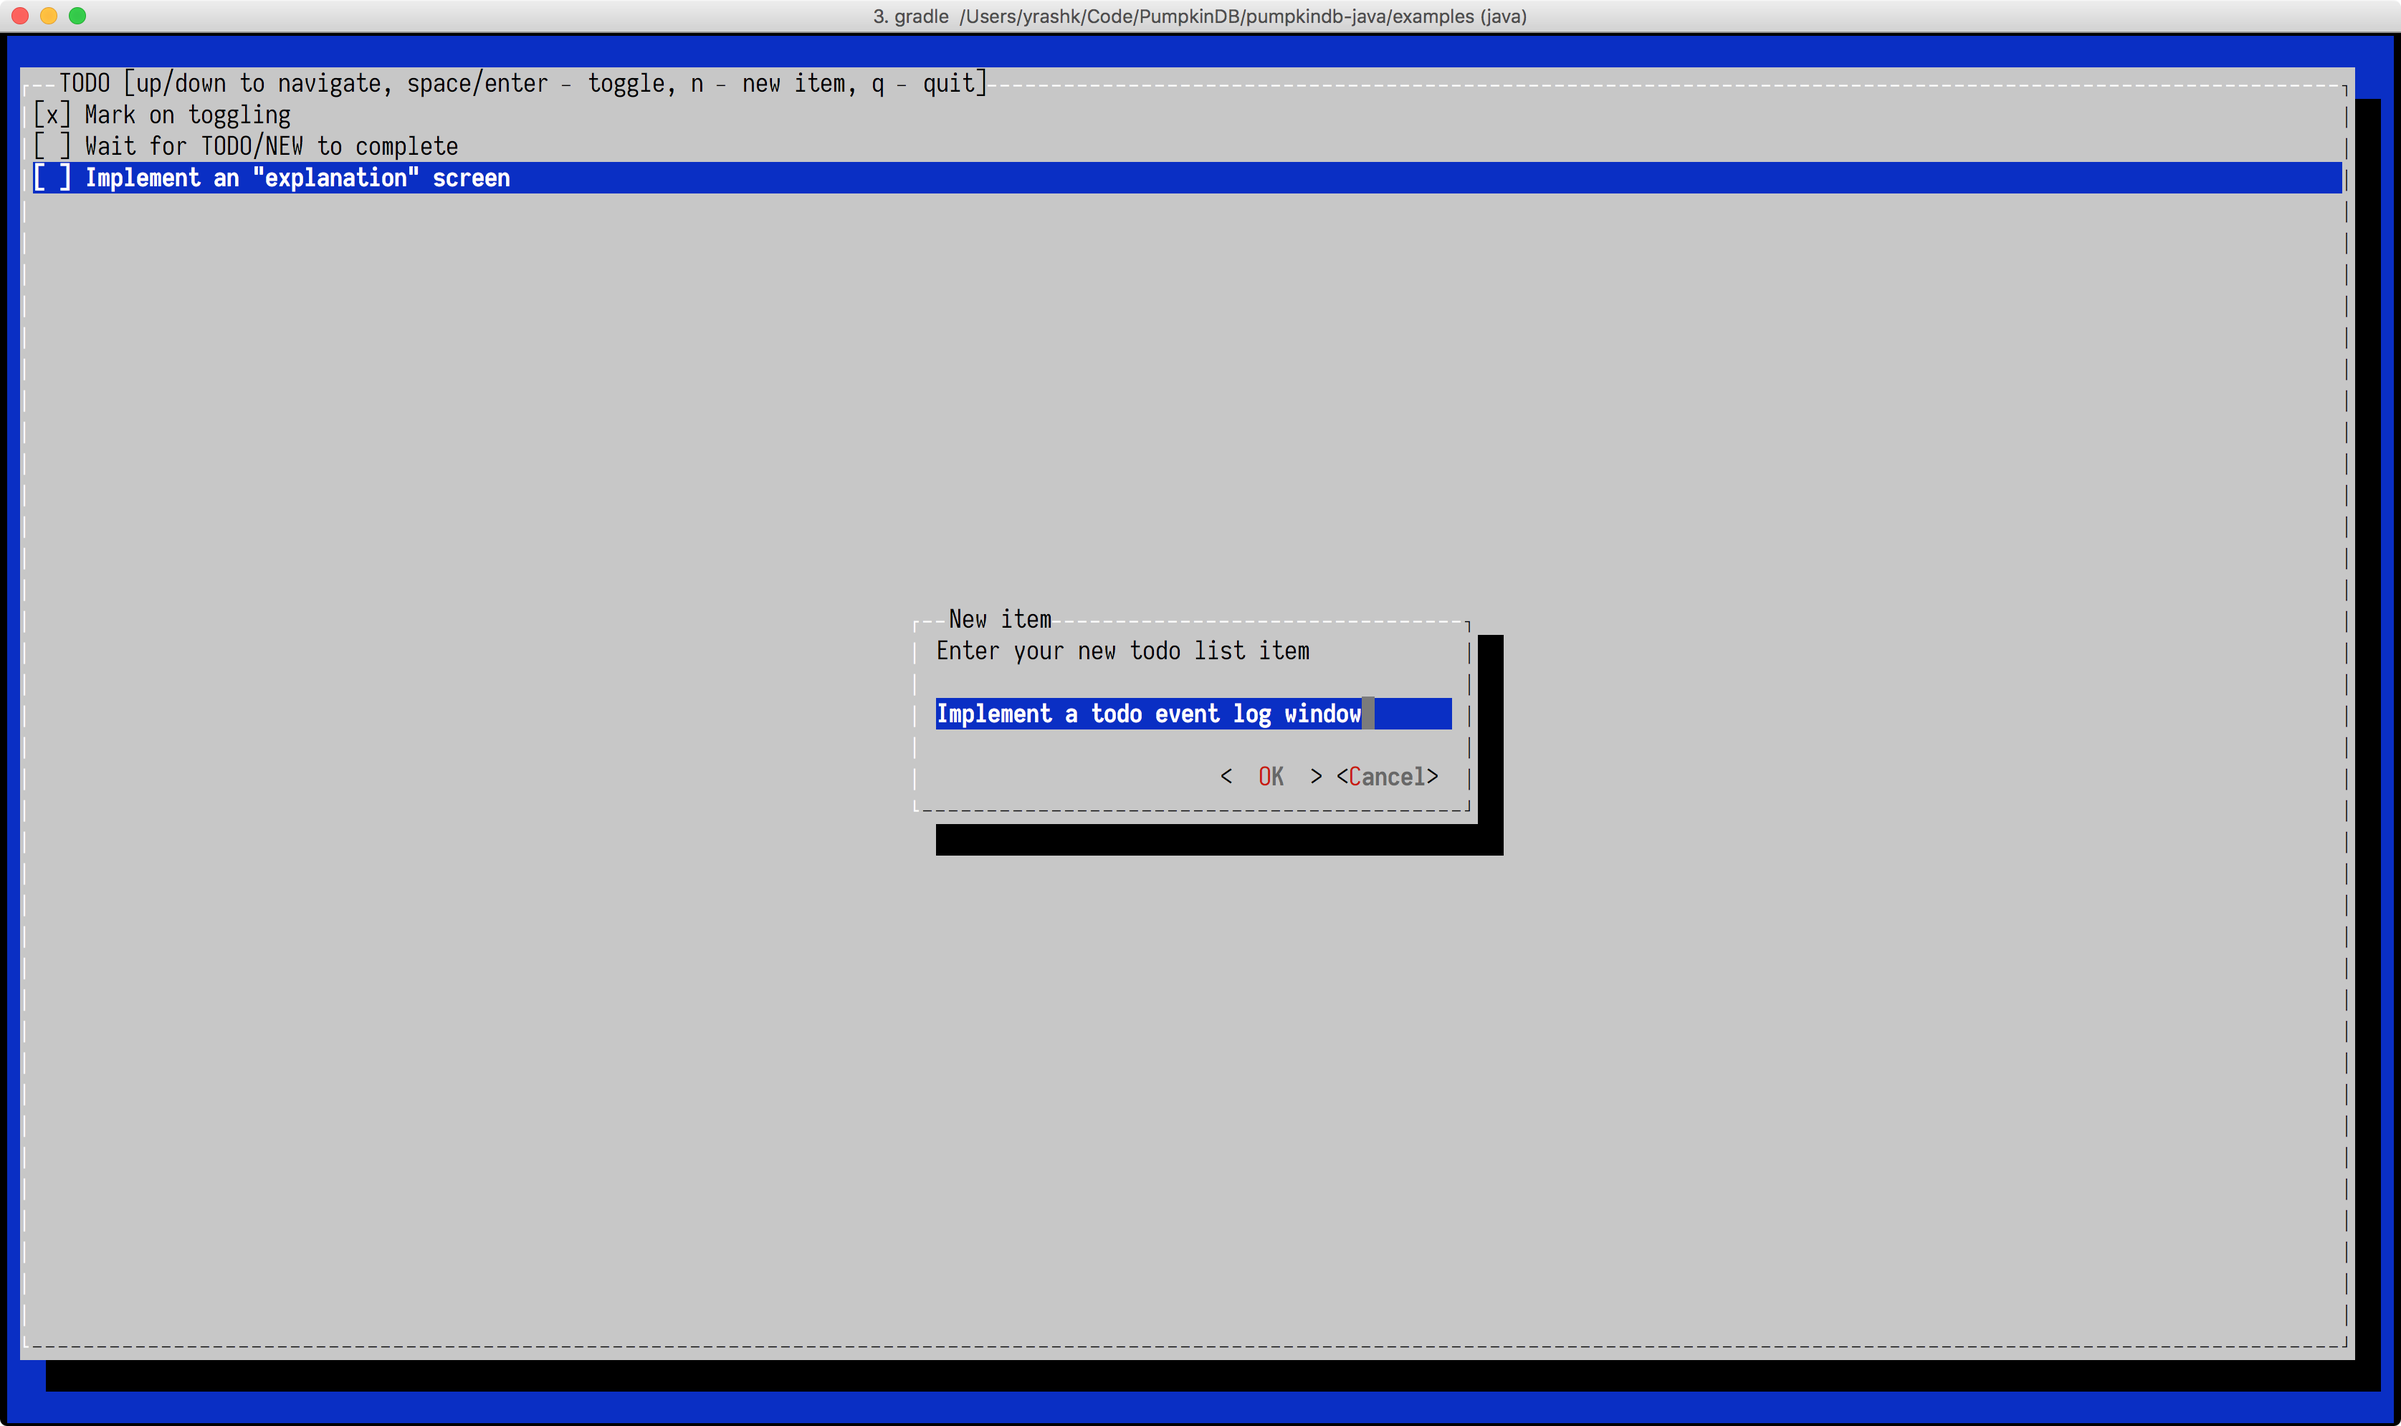
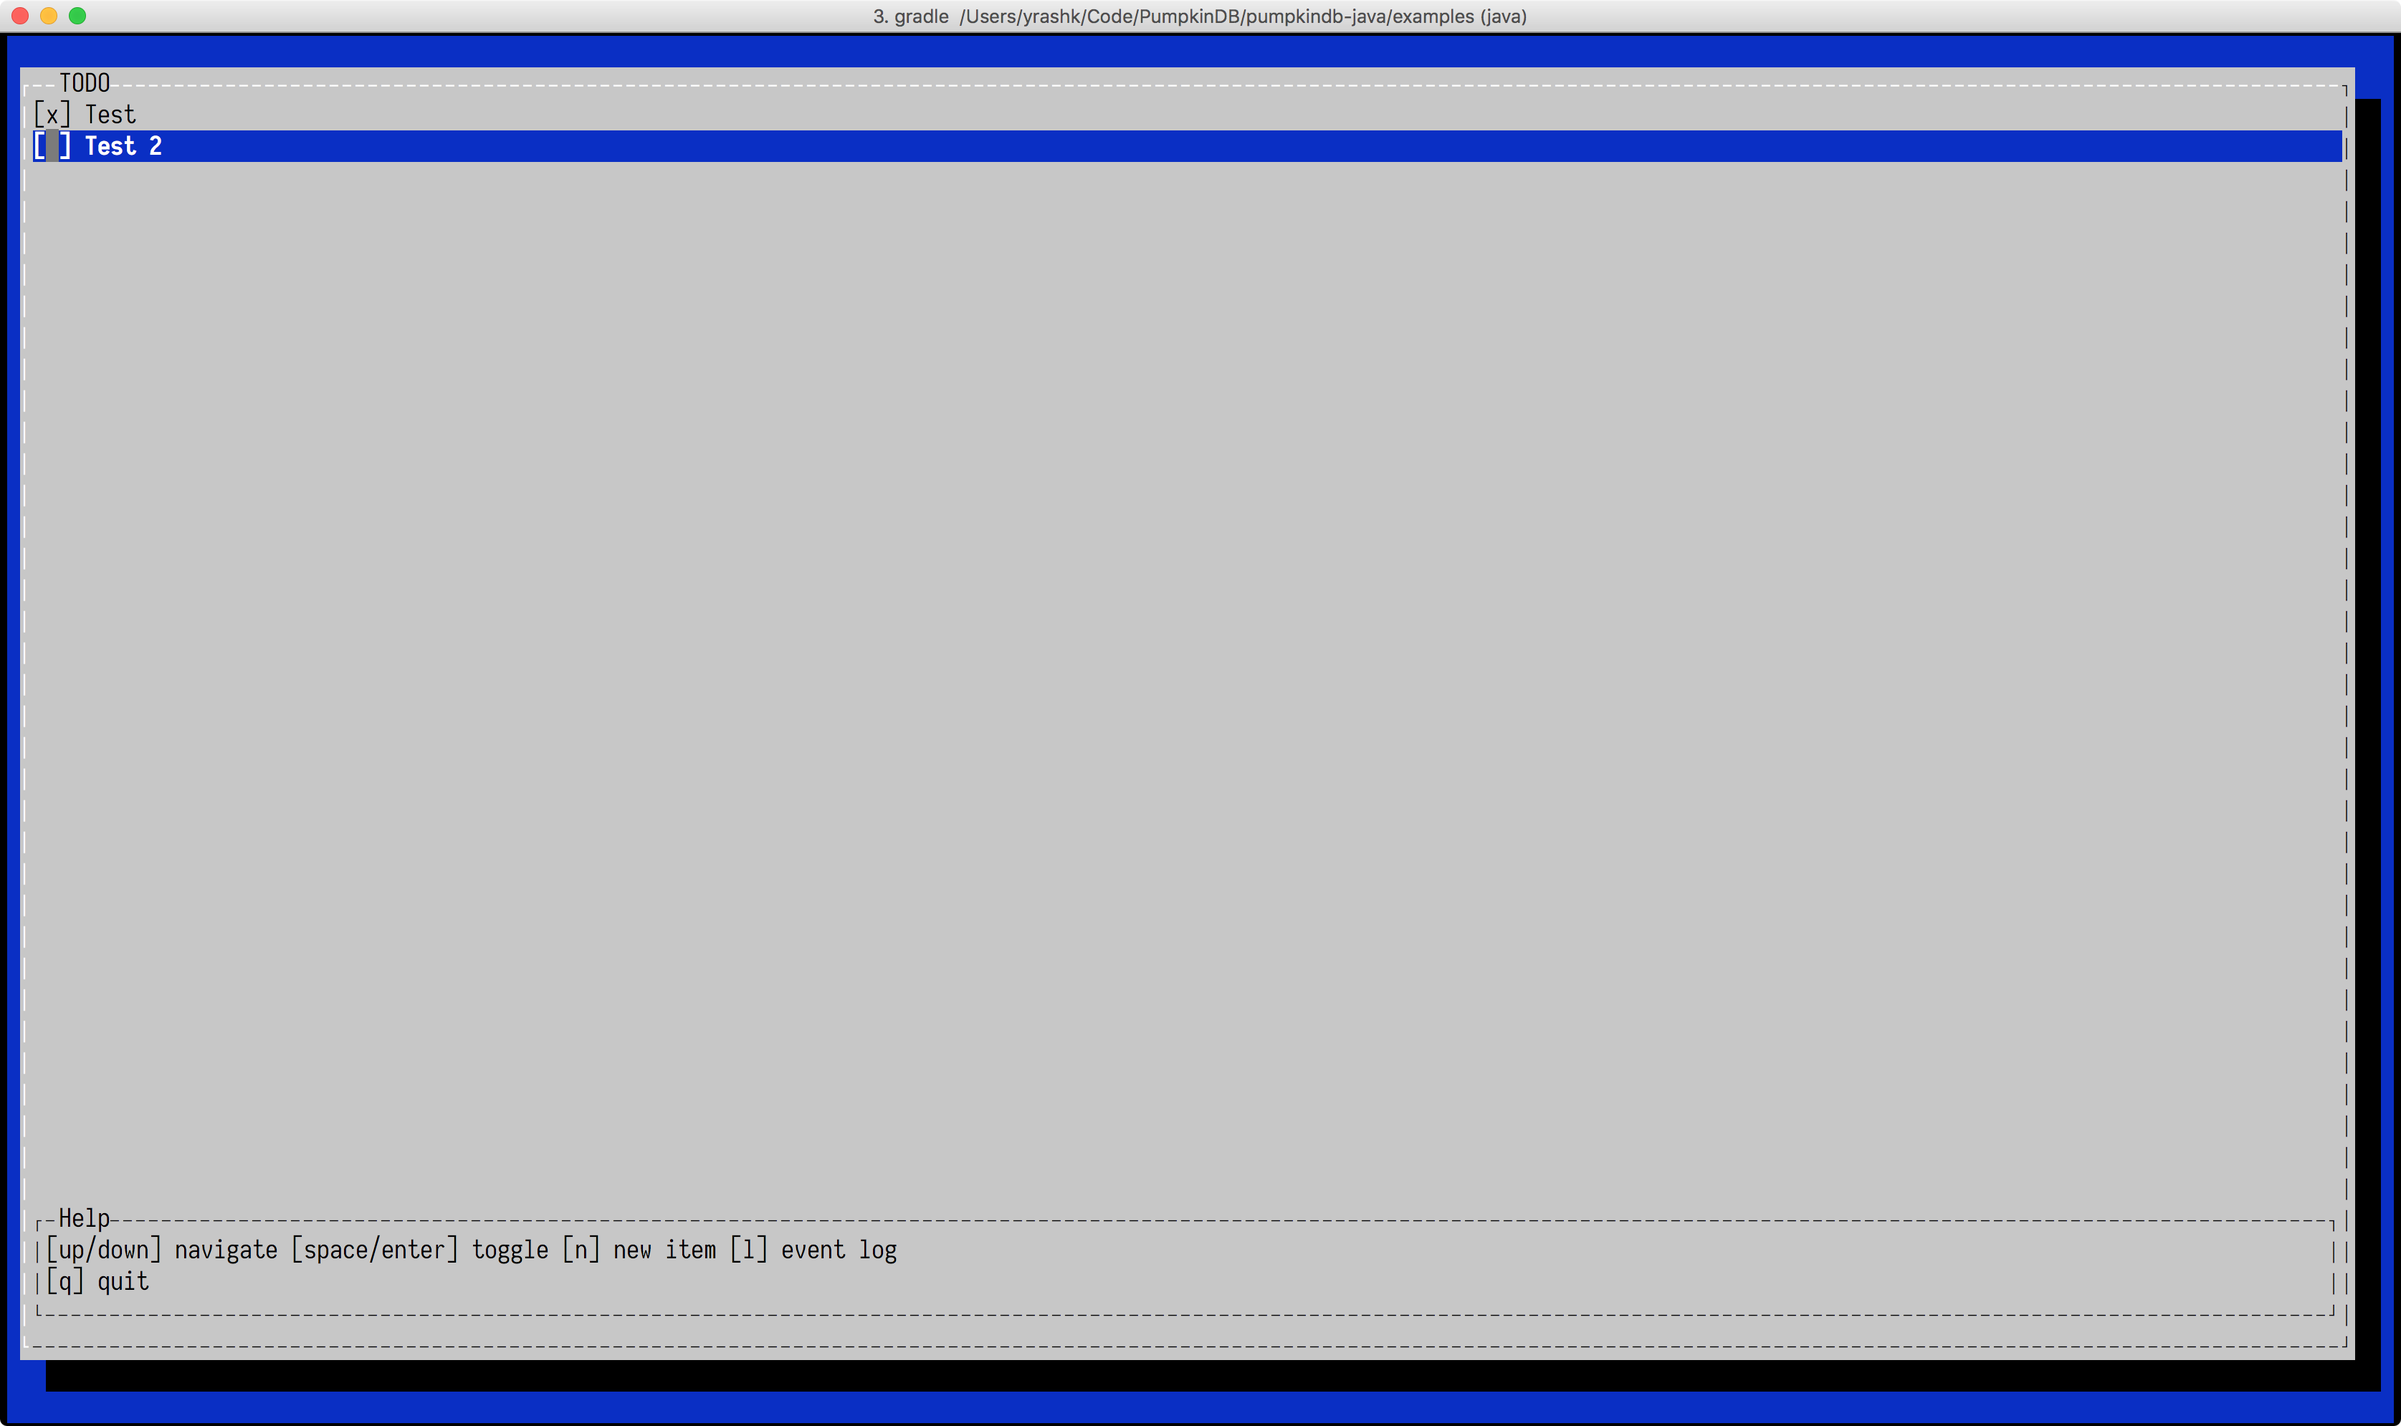
Problem: todolist example doesn't expose the evented nature
Judging just by the exposed functionality, it is impossible
to tell that todolist is using an immutable database such as
PumpkinDB.

Solution: exposes an 'event log' function to the users

This changes the way todo item events are collected (additional
journalling is now done to simplify the recovery of the complete
event log). The journal looks like this:

`[uuid][HLC] => [eventkey]`

This way we can simply iterate over all keys that start with a
given `uuid`.

This changes still continues the "tradition" of a terribly
organized code. Therefore I invite anybody, including future myself,
to get in and reorganize it, while documenting it. I just wanted
to get some basic functonality out.

diff --git a/examples/todolist/src/main/java/org/pumpkindb/examples/todolist/Main.java b/examples/todolist/src/main/java/org/pumpkindb/examples/todolist/Main.java
@@ -12,20 +12,23 @@ import com.googlecode.lanterna.gui2.*;
 import com.googlecode.lanterna.gui2.dialogs.MessageDialog;
 import com.googlecode.lanterna.gui2.dialogs.MessageDialogBuilder;
 import com.googlecode.lanterna.gui2.dialogs.TextInputDialog;
+import com.googlecode.lanterna.gui2.table.Table;
 import com.googlecode.lanterna.input.KeyStroke;
 import com.googlecode.lanterna.screen.TerminalScreen;
 import com.googlecode.lanterna.terminal.DefaultTerminalFactory;
 import com.googlecode.lanterna.terminal.Terminal;
 import io.netty.buffer.ByteBuf;
+import io.netty.buffer.Unpooled;
 import org.pumpkindb.*;
 
 import java.io.IOException;
+import java.math.BigInteger;
 import java.nio.ByteBuffer;
-import java.util.ArrayList;
-import java.util.Arrays;
-import java.util.List;
-import java.util.UUID;
+import java.nio.charset.Charset;
+import java.text.SimpleDateFormat;
+import java.util.*;
 import java.util.concurrent.ExecutionException;
+import java.util.concurrent.TimeUnit;
 import java.util.concurrent.atomic.AtomicBoolean;
 import java.util.function.Consumer;
 
@@ -78,10 +81,7 @@ public class Main {
         @Override public void encode(ByteBuf buffer) {
             Encodables script = new Encodables(Arrays.asList(
                     new Data(PREFIX),
-                    new Instruction("HLC"),
-                    new Instruction("CONCAT"),
-                    new Instruction("SWAP"),
-                    new Instruction("ASSOC")
+                    new Instructions("HLC CONCAT 2DUP SWAP ASSOC HLC ROT SWAP CONCAT SWAP ASSOC")
             ));
             script.encode(buffer);
         }
@@ -96,16 +96,9 @@ public class Main {
 
         @Override public void encode(ByteBuf buffer) {
             Encodables script = new Encodables(Arrays.asList(
+                    new Instruction("OVER"),
                     new Data(PREFIX),
-                    // uuid value prefix
-                    new Instruction("ROT"),
-                    // value prefix uuid
-                    new Instruction("HLC"),
-                    new Instruction("CONCAT"),
-                    new Instruction("CONCAT"),
-                    // value key
-                    new Instruction("SWAP"),
-                    new Instruction("ASSOC")
+                    new Instructions("SWAP HLC CONCAT CONCAT DUP -ROT SWAP ASSOC SWAP HLC CONCAT SWAP ASSOC")
             ));
             script.encode(buffer);
         }
@@ -141,14 +134,9 @@ public class Main {
 
     static class Handler implements MessageHandler {
 
-        private final UUID uuid = UUID.randomUUID();
         private final Consumer<List<Encodable>> callback;
 
         Handler(Consumer<List<Encodable>> callback) {this.callback = callback;}
-
-        public UUID getUuid() {
-            return uuid;
-        }
 
         @Override public void accept(ByteBuf byteBuf) {
             List<Encodable> encodables = new ArrayList<>();
@@ -158,14 +146,47 @@ public class Main {
 
     }
 
-    private static Encodable fetchTodoList(Handler handler) {
+
+    static class RoutingHandler implements MessageHandler {
+
+        private final UUID uuid = UUID.randomUUID();
+        private final Map<String, Handler> handlers = new HashMap<>();
+
+        public UUID getUuid() {
+            return uuid;
+        }
+
+        public void registerHandler(String key, Handler handler) {
+            handlers.put(key, handler);
+        }
+
+        public void unregisterHandler(String key) {
+            handlers.remove(key);
+        }
+
+        @Override public void accept(ByteBuf byteBuf) {
+            BinaryParsingIterator iterator = new BinaryParsingIterator(byteBuf);
+            if (iterator.hasNext()) {
+                Data key = (Data) iterator.next();
+                Handler handler = handlers.get(new String(key.getData()));
+                if (handler != null) {
+                    handler.accept(byteBuf);
+                }
+            }
+        }
+
+    }
+
+
+    private static Encodable fetchTodoList(UUID uuid) {
         return new Encodables(Arrays.asList(
-                new Uuid(handler.getUuid()),
+                new Uuid(uuid),
                 new Instruction("SUBSCRIBE"),
                 new Closure(
                         new Utf8String("AddedTodoItem"),
                         new Closure(
-                                new Instructions("CURSOR/VAL DUP DUP CURSOR DUP ROT"),
+                                new Utf8String("Items"), // routing key
+                                new Instructions("SWAP CURSOR/VAL DUP DUP CURSOR DUP ROT"),
                                 new Utf8String("ChangedTodoItem"),
                                 new Instructions("SWAP CONCAT CURSOR/SEEKLAST DROP CURSOR/VAL"),
                                 new Instructions("SWAP"),
@@ -174,9 +195,31 @@ public class Main {
                                 new Closure(new Instructions("CURSOR/VAL")),
                                 new Closure(new Instruction("DROP"), new Bool(false)),
                                 new Instructions("IFELSE"),
-                                new UnsignedInteger(3),
+                                new UnsignedInteger(4),
                                 new Instruction("WRAP"),
-                                new Uuid(handler.getUuid()),
+                                new Uuid(uuid),
+                                new Instruction("PUBLISH"),
+                                new Bool(true)
+                        ),
+                        new Instruction("CURSOR/DOWHILE-PREFIXED")
+                ),
+                new Instruction("READ"),
+                new Instruction("UNSUBSCRIBE")
+        ));
+    }
+
+    private static Encodable eventLog(UUID itemUuid, UUID routingUuid) {
+        return new Encodables(Arrays.asList(
+                new Uuid(routingUuid),
+                new Instruction("SUBSCRIBE"),
+                new Closure(
+                        new Uuid(itemUuid),
+                        new Closure(
+                                new Utf8String("EventLog"), // routing key
+                                new Instructions("SWAP DUP CURSOR/KEY SWAP CURSOR/VAL DUP RETR"),
+                                new UnsignedInteger(4),
+                                new Instruction("WRAP"),
+                                new Uuid(routingUuid),
                                 new Instruction("PUBLISH"),
                                 new Bool(true)
                         ),
@@ -191,10 +234,10 @@ public class Main {
         return new DefineInstruction(new Closure(
                 new Closure(
                         // UUID t/f
-                        new Instruction("SWAP"),
+                        new Instruction("OVER"),
                         new Utf8String("ChangedTodoStatus"),
-                        new Instructions("SWAP HLC CONCAT CONCAT"),
-                        new Instructions("SWAP ASSOC COMMIT")
+                        new Instructions("SWAP HLC CONCAT CONCAT DUP -ROT SWAP ASSOC SWAP HLC CONCAT SWAP ASSOC"),
+                        new Instruction("COMMIT")
                 ),
                 new Instructions("WRITE")
         ), "TODO/MARK");
@@ -208,6 +251,14 @@ public class Main {
                 ),
                 new Instruction("WRITE")
         ), "TODO/NEW");
+    }
+
+    private static boolean hasPrefix(byte[] b, String prefix) {
+        ByteBuf bb = Unpooled.wrappedBuffer(b);
+        return (bb.readableBytes() > prefix.length()) &&
+               (bb.readCharSequence(prefix.length(), Charset.defaultCharset()).toString()
+                        .contentEquals(prefix));
+
     }
 
     public static void main(String[] args) throws IOException, ExecutionException, InterruptedException {
@@ -231,16 +282,25 @@ public class Main {
 
 
         // Create window to hold the panel
-        BasicWindow window = new BasicWindow("TODO [up/down to navigate, space/enter — toggle, n — new item, q — " +
-                                                     "quit]");
+        BasicWindow window = new BasicWindow("TODO");
         window.setHints(Arrays.asList(Window.Hint.CENTERED, Window.Hint.EXPANDED));
 
         CheckBoxList<String> checkBoxList = new CheckBoxList<>();
-        window.setComponent(checkBoxList);
+        Label help = new Label("[up/down] navigate [space/enter] toggle [n] new item [l] event log\n" +
+                                     "[q] quit");
+        Panel helpPanel = new Panel();
+        helpPanel.addComponent(help);
+
+        Panel panel = new Panel(new BorderLayout());
+        panel.addComponent(checkBoxList, BorderLayout.Location.CENTER);
+        panel.addComponent(helpPanel.withBorder(Borders.singleLine("Help")), BorderLayout.Location.BOTTOM);
+
+        window.setComponent(panel);
+        window.setFocusedInteractable(checkBoxList);
 
         List<UUID> itemMapping = new ArrayList<>();
 
-        Handler handler = new Handler(encodables -> {
+        Handler itemListHandler = new Handler(encodables -> {
 
             ArrayList<Encodable> e = new ArrayList<>(encodables);
 
@@ -258,7 +318,11 @@ public class Main {
             }
 
         });
-        Client client = new Client("localhost", handler);
+
+        RoutingHandler routingHandler = new RoutingHandler();
+        routingHandler.registerHandler("Items", itemListHandler);
+
+        Client client = new Client("localhost", routingHandler);
         client.connect();
 
         checkBoxList.addListener((itemIndex, checked) -> {
@@ -275,7 +339,7 @@ public class Main {
             } catch (InterruptedException e) {
                 e.printStackTrace();
             }
-            client.send(fetchTodoList(handler));
+            client.send(fetchTodoList(routingHandler.getUuid()));
         });
 
         window.addWindowListener(new WindowListenerAdapter() {
@@ -296,16 +360,71 @@ public class Main {
                         } catch (InterruptedException e) {
                             e.printStackTrace();
                         }
-                        client.send(fetchTodoList(handler));
+                        client.send(fetchTodoList(routingHandler.getUuid()));
                     }
                 }
                 if (keyStroke.getCharacter() == Character.valueOf('q')) {
                     window.close();
                 }
+                if (keyStroke.getCharacter() == Character.valueOf('l')) {
+                    BasicWindow window = new BasicWindow("Event log");
+                    window.setHints(Arrays.asList(Window.Hint.CENTERED, Window.Hint.EXPANDED));
+
+                    Panel panel = new Panel(new BorderLayout());
+                    Table<String> table = new Table<>("Timestamp", "What happened");
+
+                    routingHandler.registerHandler("EventLog", new Handler(encodables -> {
+                        Data key = (Data) encodables.remove(0);
+                        Data reference = (Data) encodables.remove(0);
+                        Data value = (Data) encodables.remove(0);
+
+                        // Parse key
+                        ByteBuf bb = Unpooled.wrappedBuffer(key.getData());
+                        bb.skipBytes(16); // uuid
+                        bb.skipBytes(4); // HLC epoch
+                        byte[] ts = new byte[8];
+                        bb.readBytes(ts); // timestamp
+
+                        long ms = TimeUnit.MILLISECONDS
+                                .convert(new BigInteger(ts).longValue(), TimeUnit.NANOSECONDS);
+                        Date date = new Date(ms);
+
+                        // Parse reference
+                        String event = "Unknown";
+
+                        if (hasPrefix(reference.getData(), "AddedTodoItem")) {
+                            event = "Item added";
+                        }
+
+                        if (hasPrefix(reference.getData(), "ChangedTodoItem")) {
+                            event = "Item changed to: " + new String(value.getData());
+                        }
+
+                        if (hasPrefix(reference.getData(), "ChangedTodoStatus")) {
+                            boolean done = value.getData()[0] == 1;
+                            event = "Item marked as " + (done ? "done" : "not done");
+                        }
+
+
+                        String formattedDate = new SimpleDateFormat("EEE MMM d yyyy h:mm a", Locale.ENGLISH)
+                                .format(date);
+
+                        table.getTableModel().addRow(formattedDate, event);
+                    }));
+
+                    client.send(eventLog(itemMapping.get(checkBoxList.getSelectedIndex()), routingHandler.getUuid()));
+
+                    panel.addComponent(table, BorderLayout.Location.CENTER);
+                    panel.addComponent(new Button("Close", window::close), BorderLayout.Location.BOTTOM);
+
+                    window.setComponent(panel);
+                    gui.addWindowAndWait(window);
+                }
             }
         });
-//        client.send(new StackCollectingProgram(new Closure(fetchTodoList(handler))));
-        client.send(fetchTodoList(handler));
+
+//        client.send(new StackCollectingProgram(new Closure(fetchTodoList(itemListHandler))));
+        client.send(fetchTodoList(routingHandler.getUuid()));
 
         gui.addWindowAndWait(window);
 

diff --git a/examples/README.md b/examples/README.md
@@ -8,3 +8,4 @@ gradle clean installDist && \
 ```
 
 ![TodoList](todolist.png)
+![TodoList event log](todolist2.png)
